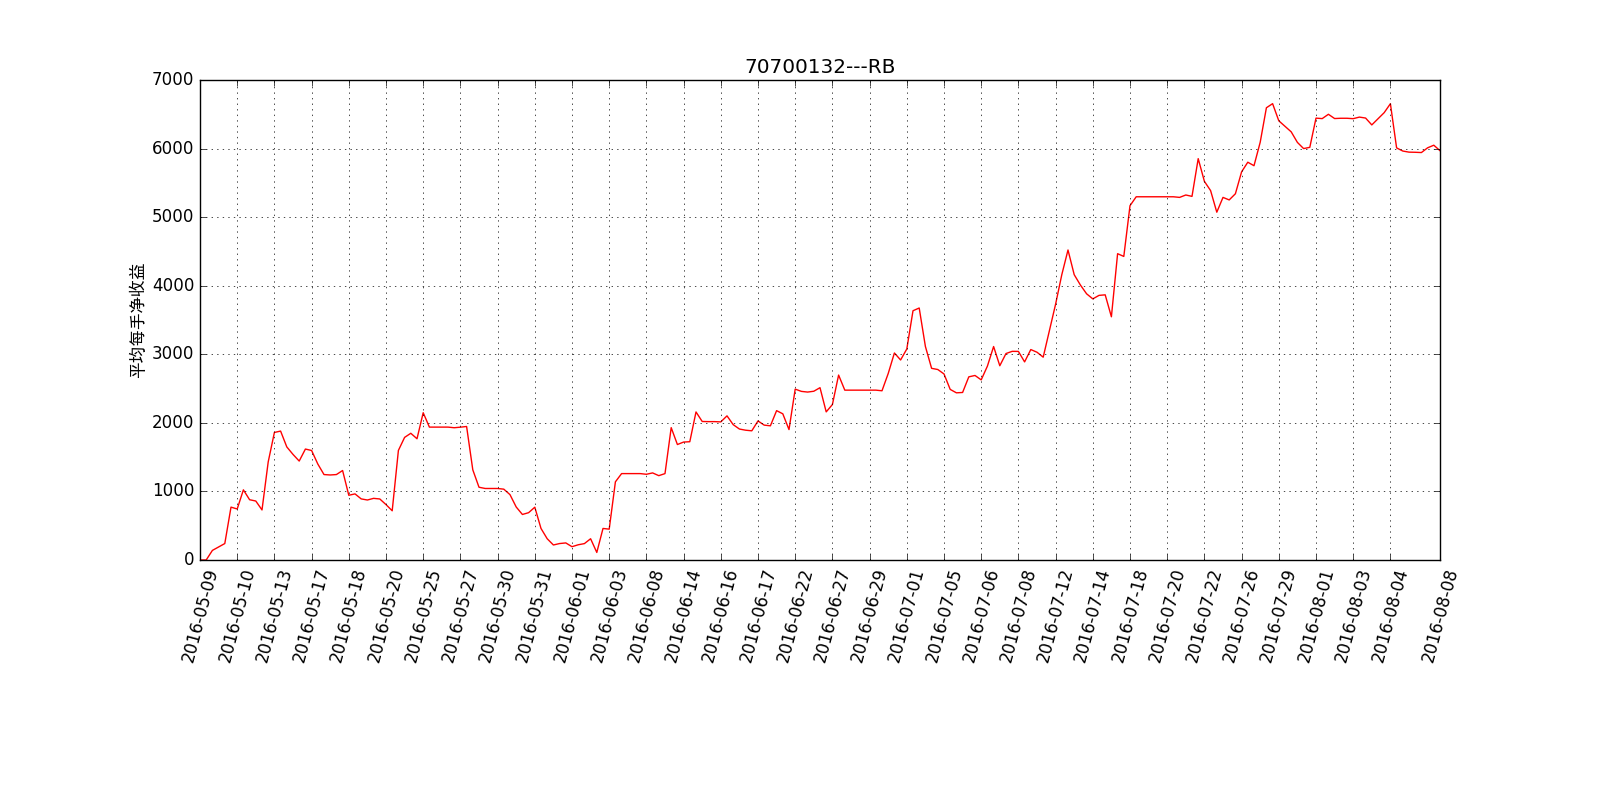
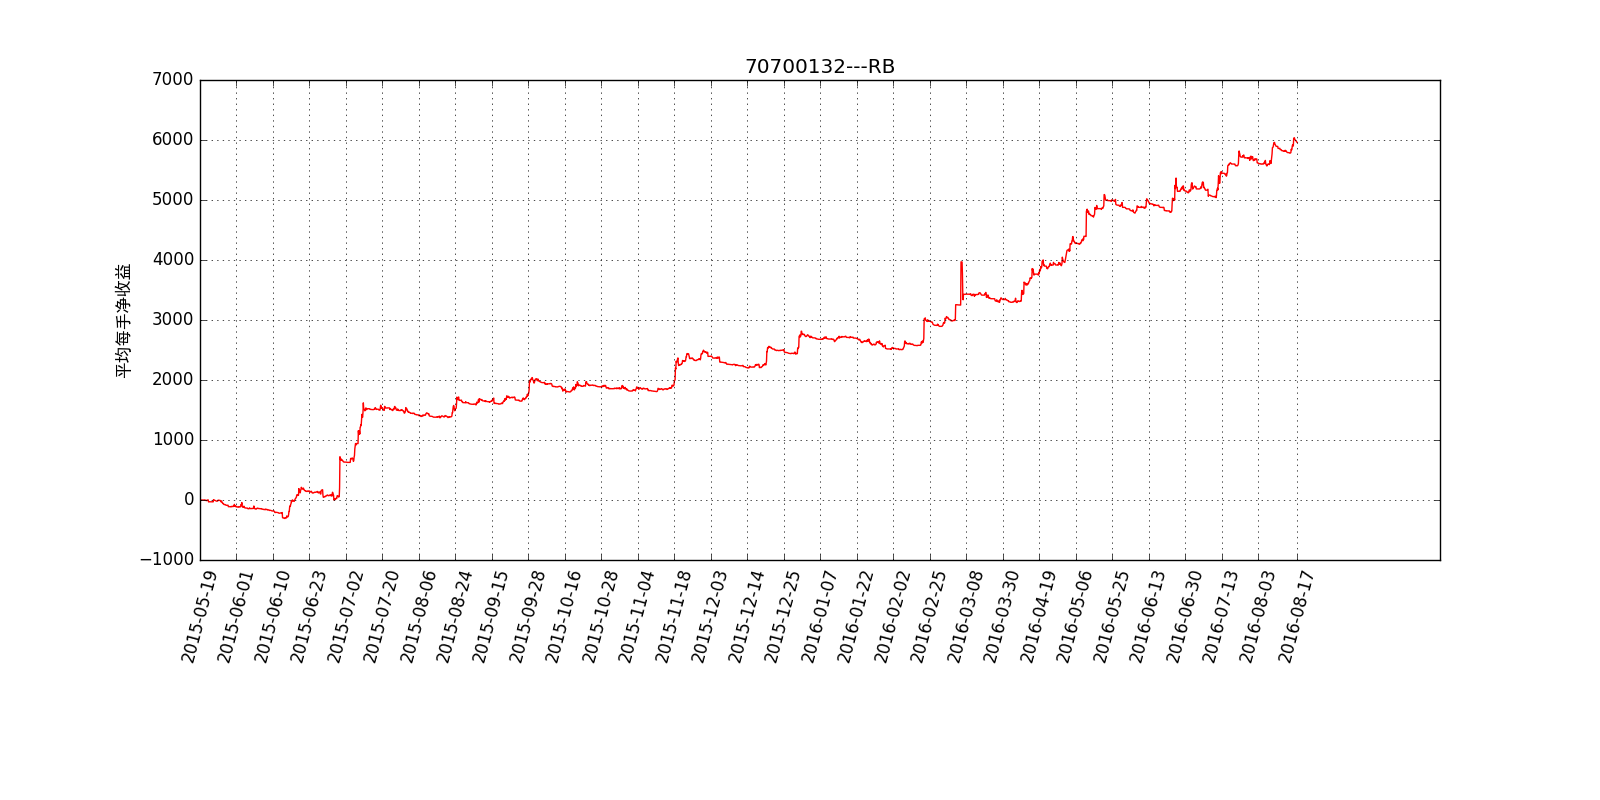
1

diff --git a/pythonfile/new_cal_quayi_V3_account_limit.py b/pythonfile/new_cal_quayi_V3_account_limit.py
@@ -434,14 +434,26 @@ def real_account_groupbyquanyi(ac,symbol,maxposition):
 		#print 3,datetime.datetime.now()
 		positionlist=[]
 		lastp=0
+		tempaaposition=0
+		# 触碰线立马掉头
+		# for item in newlist:
+		# 	temptotal=item[1]+lastp
+		# 	if temptotal>=maxposition:
+		# 		temptotal=maxposition
+		# 	if (temptotal+maxposition)<=0:
+		# 		temptotal=-maxposition
+		# 	lastp=temptotal
+		# 	positionlist.append([item[0],item[1],temptotal])
+		#阶梯状态
 		for item in newlist:
 			temptotal=item[1]+lastp
-			if temptotal>=maxposition:
-				temptotal=maxposition
-			if (temptotal+maxposition)<=0:
-				temptotal=-maxposition
 			lastp=temptotal
-			positionlist.append([item[0],item[1],temptotal])
+			tempaaposition=temptotal
+			if temptotal>=maxposition:
+				tempaaposition=maxposition
+			if (temptotal+maxposition)<=0:
+				tempaaposition=-maxposition
+			positionlist.append([item[0],item[1],tempaaposition])
 			# [datetime.datetime(2016, 7, 19, 14, 59), -4.0, 0.0]
 		#总仓位有部分与现有的不符合，但大多数一致，可以再找个虚拟组测试下
 		##print positionlist
@@ -564,8 +576,8 @@ def real_account_groupbyquanyi(ac,symbol,maxposition):
 # cal_quanyi('RB2supportresistance',myquotes,totalsum,'RB')
 
 # show_account('myaccount2')
-(myquotes,totalsum)=real_account_groupbyquanyi('70700132','RB',2)
+(myquotes,totalsum)=real_account_groupbyquanyi('70700132','RB',5)
 print totalsum
 # for item in myquotes:
 # 	print item 
-cal_quanyi('70700132',myquotes,2,'RB')
+cal_quanyi('70700132',myquotes,5,'RB')

diff --git a/pythonfile/new_cal_quayi_V2.py b/pythonfile/new_cal_quayi_V2.py
@@ -82,7 +82,7 @@ def input_groupbyquanyi(ac,symbol):
 		###以上已经准备好虚拟组的仓位信息
 		fisrttime=positionlist[0][0]
 		#[datetime.datetime(2015, 10, 21, 9, 0), 6.0, 6.0]
-		sql="select	C,StockDate from TSymbol where Symbol='%s' and  stockdate >='%s' order by StockDate " % (symbol,fisrttime)
+		sql="select	C,StockDate from TSymbol_quotes_backup where Symbol='%s' and  stockdate >='%s' order by StockDate " % (symbol,fisrttime)
 		res=ms.dict_sql(sql)
 		# print res[:10]
 		#对行情日期遍历
@@ -481,7 +481,7 @@ def real_account_groupbyquanyi(ac,symbol):
 		###以上已经准备好虚拟组的仓位信息
 		fisrttime=positionlist[0][0]
 		#[datetime.datetime(2015, 10, 21, 9, 0), 6.0, 6.0]
-		sql="select	C,StockDate from TSymbol where Symbol='%s' and  stockdate >='%s' order by StockDate " % (symbol,fisrttime)
+		sql="select	C,StockDate from TSymbol_quotes_backup where Symbol='%s' and  stockdate >='%s' order by StockDate " % (symbol,fisrttime)
 		res=ms.dict_sql(sql)
 		# print res[:10]
 		#对行情日期遍历
@@ -589,8 +589,8 @@ def real_account_groupbyquanyi(ac,symbol):
 
 
 
-# (myquotes,totalsum)=input_groupbyquanyi('rbchoosel','RB')
-# cal_quanyi('rbchoosel',myquotes,totalsum,'RB')
+# (myquotes,totalsum)=input_groupbyquanyi('Rbjietiall','RB')
+# cal_quanyi('Rbjietiall',myquotes,totalsum,'RB')
 
 # show_account('myaccount2')
 

diff --git a/pythonfile/new_cal_quayi_V3_account.py b/pythonfile/new_cal_quayi_V3_account.py
@@ -560,8 +560,8 @@ def real_account_groupbyquanyi(ac,symbol):
 # cal_quanyi('RB2supportresistance',myquotes,totalsum,'RB')
 
 # show_account('myaccount2')
-(myquotes,totalsum)=real_account_groupbyquanyi('70700132','RB')
+(myquotes,totalsum)=real_account_groupbyquanyi('753918','RB')
 print totalsum
 # for item in myquotes:
 # 	print item 
-cal_quanyi('70700132',myquotes,totalsum,'RB')
+cal_quanyi('753918',myquotes,totalsum,'RB')

diff --git a/pythonfile/new_cal_quayi.py b/pythonfile/new_cal_quayi.py
@@ -420,9 +420,9 @@ def show_all_ac(acname=''):
 # show_all_ac('RU3v4e')
 
 
-(myquotes,totalsum)=input_groupbyquanyi('RUQGOpen_TG','RU')
+(myquotes,totalsum)=input_groupbyquanyi('RB_QGplud','RB')
 #仓位信息OK
 print totalsum
-cal_quanyi('RUQGOpen_TG',myquotes,totalsum,'RU')
+cal_quanyi('RB_QGplud',myquotes,totalsum,'RB')
 
 # show_account('myaccount2')
